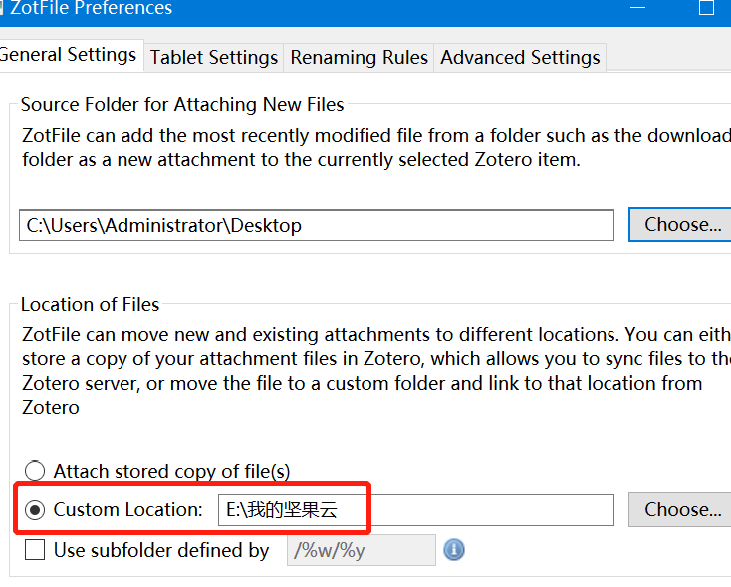
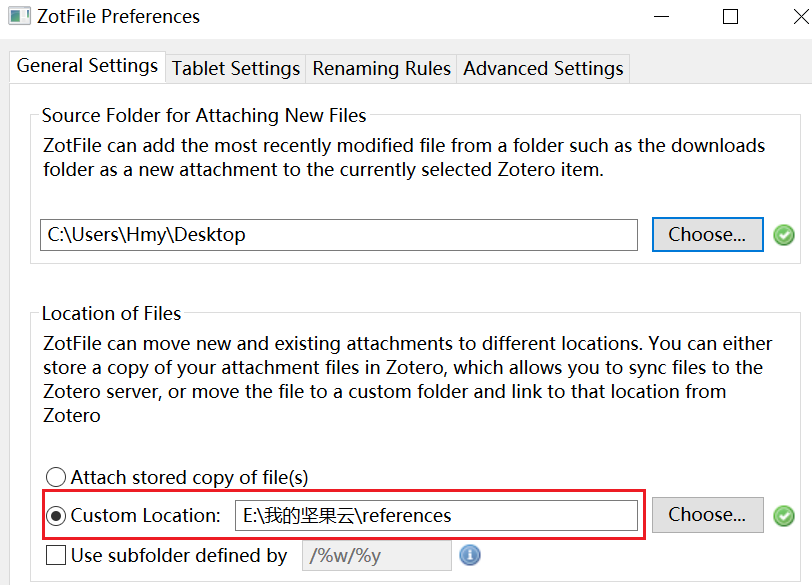
修改部分错误，替换图片

diff --git a/Ezotero_intro.tex b/Ezotero_intro.tex
@@ -5,8 +5,8 @@
 	
 	\author{韩敏义}
 	\institute{南京农业大学\\\kaishu\hspace{1.1cm}温氏食品集团股份有限公司}
-	\date{Oct 02, 2021}
-	\version{2.10}
+	\date{Oct 03, 2021}
+	\version{2.15}
 	%\bioinfo{自定义}{信息}
 	%\extrainfo{Victory won\rq t come to us unless we go to it. --- M. Moore}
 	
@@ -768,7 +768,7 @@
 			如\autoref{fig:ch2Unlink}所示。需要注意的是去除域代码后，再插入或删除参考文献列表就不会再自动更新了，而且再用Zotero插入的文献会自动重新编号，要想在原来基础上更新，
 			只能在还保留域代码的文件中进行操作。
 			
-	\chapter[利用坚果云同步全文]{利用坚果云同步全文\footnote{如果没有在不同电脑同步题录和全文的需要，本章可以略过}}\label{ch:syn}		
+	\chapter[利用坚果云同步全文]{利用坚果云同步全文\footnote{如果没有在不同电脑同步题录和全文的需要，本章可以略过。}}\label{ch:syn}		
 		需要在不同电脑上阅读文献及写作的人有同步的需要。另外，如果出于对题录信息和全文备份的需要，也可以使用同步。在本章我们使用Zotero来同步题录信息，使用坚果云来同步全文信息。
 			\section{注册Zotero用户}\label{sec:zotReg}
 		使用Zotero来同步题录信息需要注册Zotero用户，注册的网址是\url{https://www.zotero.org/user/register}，注册的流程与一般网站注册用户差别不大，
@@ -780,9 +780,11 @@
 		by clicking on the following link or pasting it into your browser: 
 		\url{https://www.zotero.org/user/validate/1ab18fc52bb2b7ba6ddb},validate后面的内容会有差异，
 		将这些地址复制到浏览器地址栏，按回车，如果页面显示：Success! You registered your Zotero account!则邮箱验证成功。
-		如果收件箱内没有收到邮件，可以到垃圾邮件内找找，有可能这封邮件被邮件系统误认为是垃圾邮件了。不进行激活可以使用，
+		如果收件箱内没有收到邮件，可以到垃圾邮件内找找，有可能这封邮件被邮件系统误认为是垃圾邮件了。不进行激活也可以使用，
 		但是无法创建群组(创建群组见\cref{sec:CreatGroup})。值得注意的是，注册Zotero用户时需要翻墙，
-		因为这个网站需要调用Google的人机身份验证，如果不翻墙的话，无法完成注册，当然也可以请国外的亲朋好友帮忙注册用户。
+		因为这个网站需要调用Google的人机身份验证，如果不翻墙的话，
+		无法完成注册\footnote{20211003现在好像不需要翻墙也可以注册Zotero账户了。}，
+		当然也可以请国外的亲朋好友帮忙注册用户。
 		完成Zotero用户注册以后还需要在Zotero登录才能进行题录信息的同步，登录的方法见\cref{sec:syn}。
 		%register zotero
 		\begin{figure}[htbp]
@@ -886,7 +888,7 @@
 
 		坚果云的其他问题可以访问\url{http://help.jianguoyun.com/}查找解决方法。
 		
-		\section{ ZotFile插件安装}\label{sec:ZotFileInstall}
+		\section{ZotFile插件安装}\label{sec:ZotFileInstall}
 		Zotero可以对题录的全文进行管理，在链接上全文以后，Zotero会将全文复制到其数据文件夹(数据文件夹在\cref{sec:data_dir}提到)
 		的storage文件夹下的一些名字比较奇怪的文件夹下，对于全文的查找和管理带来不便，因此推荐使用\href{http://zotfile.com/}{ZotFile}插件来进行管理。
 		\begin{enumerate}
@@ -901,7 +903,7 @@
 			\end{figure}
 			
 			\item
-			Zotero插件与Zotero中其他插件(扩展)的安装方法相同，方法是在Zotero菜单中点击\menu{Tools-Add-ons}，
+			Zotero插件与Zotero中其他插件(扩展)的安装方法相同，方法是在Zotero菜单中点击\menu{Tools-{Add-ons}}，
 			如\autoref{fig:ch3ZotFileInstall1}所示。
 			%zotfile install
 			\begin{figure}[htbp]
@@ -912,7 +914,7 @@
 			\end{figure}
 			\item
 			在弹出的对话框中，
-			依次点击\menu{齿轮图标-Install Add-on From File...}，
+			依次点击\menu{齿轮图标-Install {Add-on} From File...}，
 			如\autoref{fig:ch3ZotFileInstall2}所示。
 			\item
 			然后找到以前下载的zotfile-v.v.v-fx.xpi(v为具体的版本号)，如\autoref{fig:ch3ZotFileInstall3}所示。
@@ -939,7 +941,7 @@
 			安装完成后，会提示\href{http://zotfile.com/}{ZotFile}在重启Zotero后安装，
 			点击\menu{Restart now}重启，如\autoref{fig:ch3ZotFileInstall5}所示，
 			或是再安装完其他插件后一块重启，
-			重启后会如果发现Zotero \menu{Tools}-菜单下有\menu{ZoteFile Preferences...}，说明\href{http://zotfile.com/}{ZotFile}插件安装成功，
+			重启后会如果发现Zotero \menu{Tools}菜单下有\menu{ZoteFile Preferences...}，说明\href{http://zotfile.com/}{ZotFile}插件安装成功，
 			\href{http://zotfile.com/}{ZotFile}插件的设置见\cref{sec:zotFilePre}。
 			%zotfile install4
 			\begin{figure}[htbp]
@@ -968,7 +970,7 @@
 			\item
 			在弹出的Zotero Preferences对话框中点击\menu{Sync}，
 			然后在Setting中输入\cref{sec:zotReg}中申请的Zotero的用户名和密码后，
-			再\menu{Set Up Syncing}，如\autoref{fig:ch3ZoteroPre2}所示。
+			点击\menu{Set Up Syncing}，如\autoref{fig:ch3ZoteroPre2}所示。
 			%zotfile install2-3
 				\begin{figure}[t]
 					\centering
@@ -986,18 +988,20 @@
 				\end{minipage}
 			\end{figure}
 			\item
-			如果输入的用户名、密码正确，且网络畅通，则会弹出文件同步的一些选项，
-			注意不要选择\menu{Sync full-tex content(同步全文内容)}
-			和\menu{File Syncing(文件同步)}前面的选项，如\autoref{fig:ch3ZoteroPre3}所示，因为Zotero提供的全文同步空间有限，
+			如果输入的用户名、密码正确，会弹出文件同步的选项，
+			点击\menu{Sync automatically}和\menu{Sync {full-text} content}
+			前面的方框使之选中，\menu{File Syncing}下面的两个选项不要选中，
+			如\autoref{fig:ch3ZoteroPre3}所示，因为Zotero提供的全文同步空间有限，
 			我们在\cref{sec:jianguoReg}中设置了用坚果云同步全文，但此时Zotero还不能同步全文到其他电脑，
-			还需要使用\href{http://zotfile.com/}{ZotFile}插件将全文附件自动复制到坚果云的同步盘中，见\cref{sec:zotFilePre}。
+			还需要使用\href{http://zotfile.com/}{ZotFile}插件将全文附件自动复制到坚果云的同步盘中，
+			见\cref{sec:zotFilePre}。
 			\item				  	
 			也可以利用坚果云提供的WebDAV服务同步全文，方法见\url{http://help.jianguoyun.com/?p=3168},
 			简书文章\url{https://www.jianshu.com/p/e7f5c3e95cf4}。			  
 			%zotfile install5
 			\begin{figure}[htbp]
 				\centering
-				\includegraphics[scale=0.5]{ch3ZoteroPre3}
+				\includegraphics[scale=0.7]{ch3ZoteroPre3}
 				\caption{Zotero同步设置}
 				\label{fig:ch3ZoteroPre3}
 			\end{figure}
@@ -1022,11 +1026,11 @@
 			\item 点击\menu{General Settings},
 			然后点击\menu{Location of Files}中\menu{Custom Location}小圆圈，
 			再点击后面的\menu{Choose}，
-			选择坚果云同步目录(也是全文附件的存放目录)，如\autoref{fig:ch3ZotFilePre2}所示。
+			选择坚果云中文献全文同步目录，如\autoref{fig:ch3ZotFilePre2}所示。
 			%zotfile install5
 			\begin{figure}[htbp]
 				\centering
-				\includegraphics[scale=0.7]{ch3ZotFilePre2}
+				\includegraphics[scale=0.8]{ch3ZotFilePre2}
 				\caption{ZotFile文件夹设置}
 				\label{fig:ch3ZotFilePre2}
 			\end{figure}
@@ -1064,7 +1068,7 @@
 			%zotfile rename
 			\begin{figure}[htbp]
 				\centering
-				\includegraphics[width=0.6\linewidth]{ch3ZotFileRename1}
+				\includegraphics[width=0.5\linewidth]{ch3ZotFileRename1}
 				\caption{ZotFile重命名附件提示}
 				\label{fig:ch3ZotFileRename1}
 			\end{figure}
